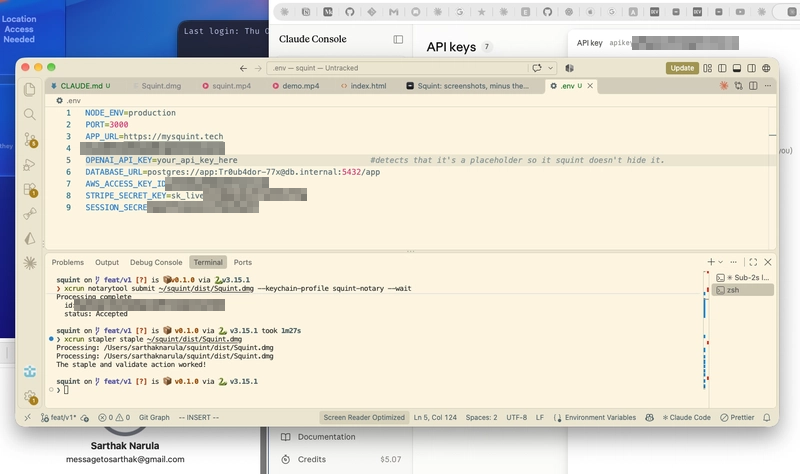
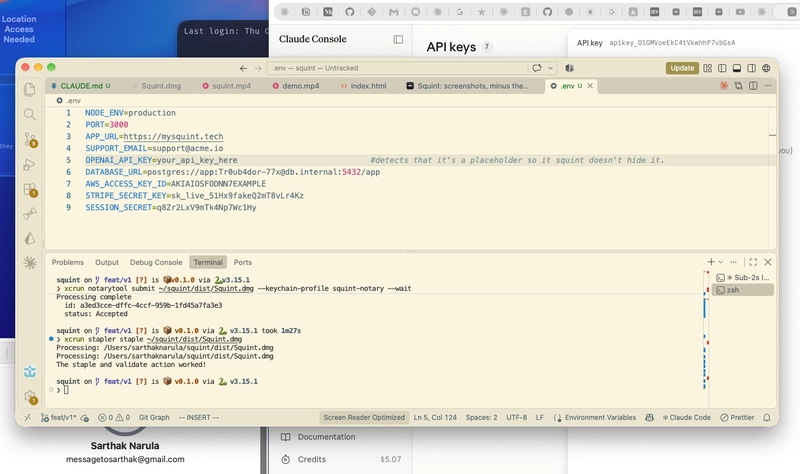
docs: use the raw screenshot as the README before image

diff --git a/README.md b/README.md
@@ -46,7 +46,7 @@ A real screenshot from my desk, before and after:
     <th width="50%">After</th>
   </tr>
   <tr>
-    <td><img src="docs/images/real-before.png" alt="Before: the database password in DATABASE_URL and my email are readable"></td>
+    <td><img src="docs/images/real-before.png" alt="Before: the raw screenshot, with the database password, AWS key, Stripe key, session secret, my email and a Claude Console API key all readable"></td>
     <td><img src="docs/images/real-after.png" alt="After: the database password, keys, session secret, my email and a Claude Console API key are pixelated; the settings, support address, placeholder key and notarization log stay readable"></td>
   </tr>
 </table>
